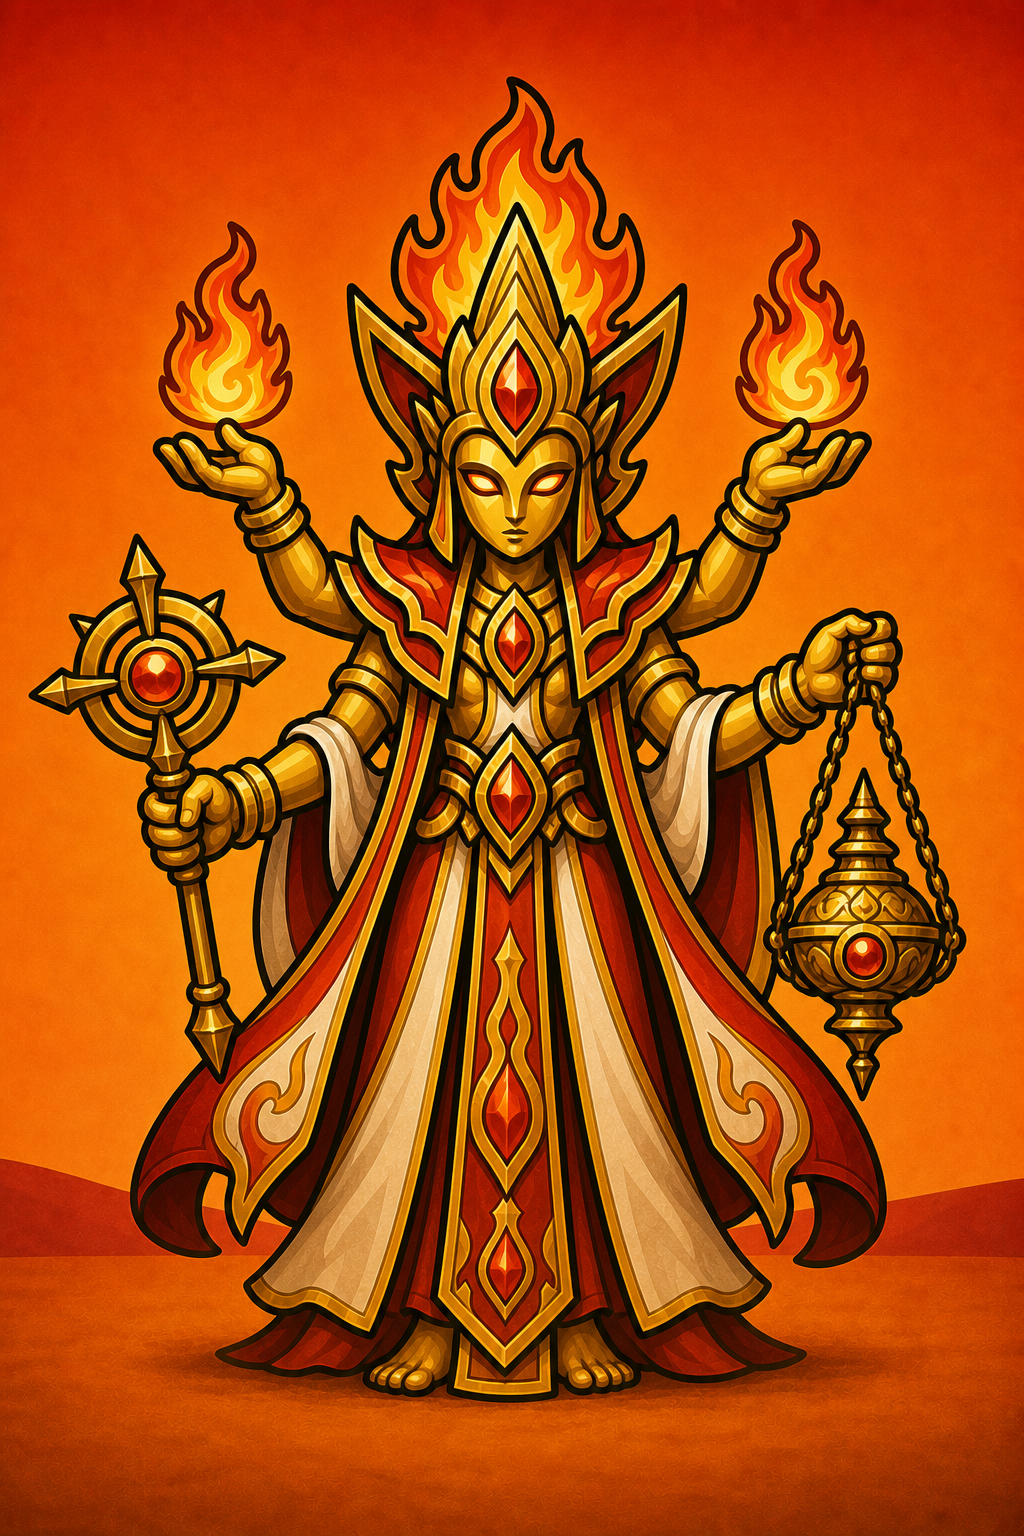
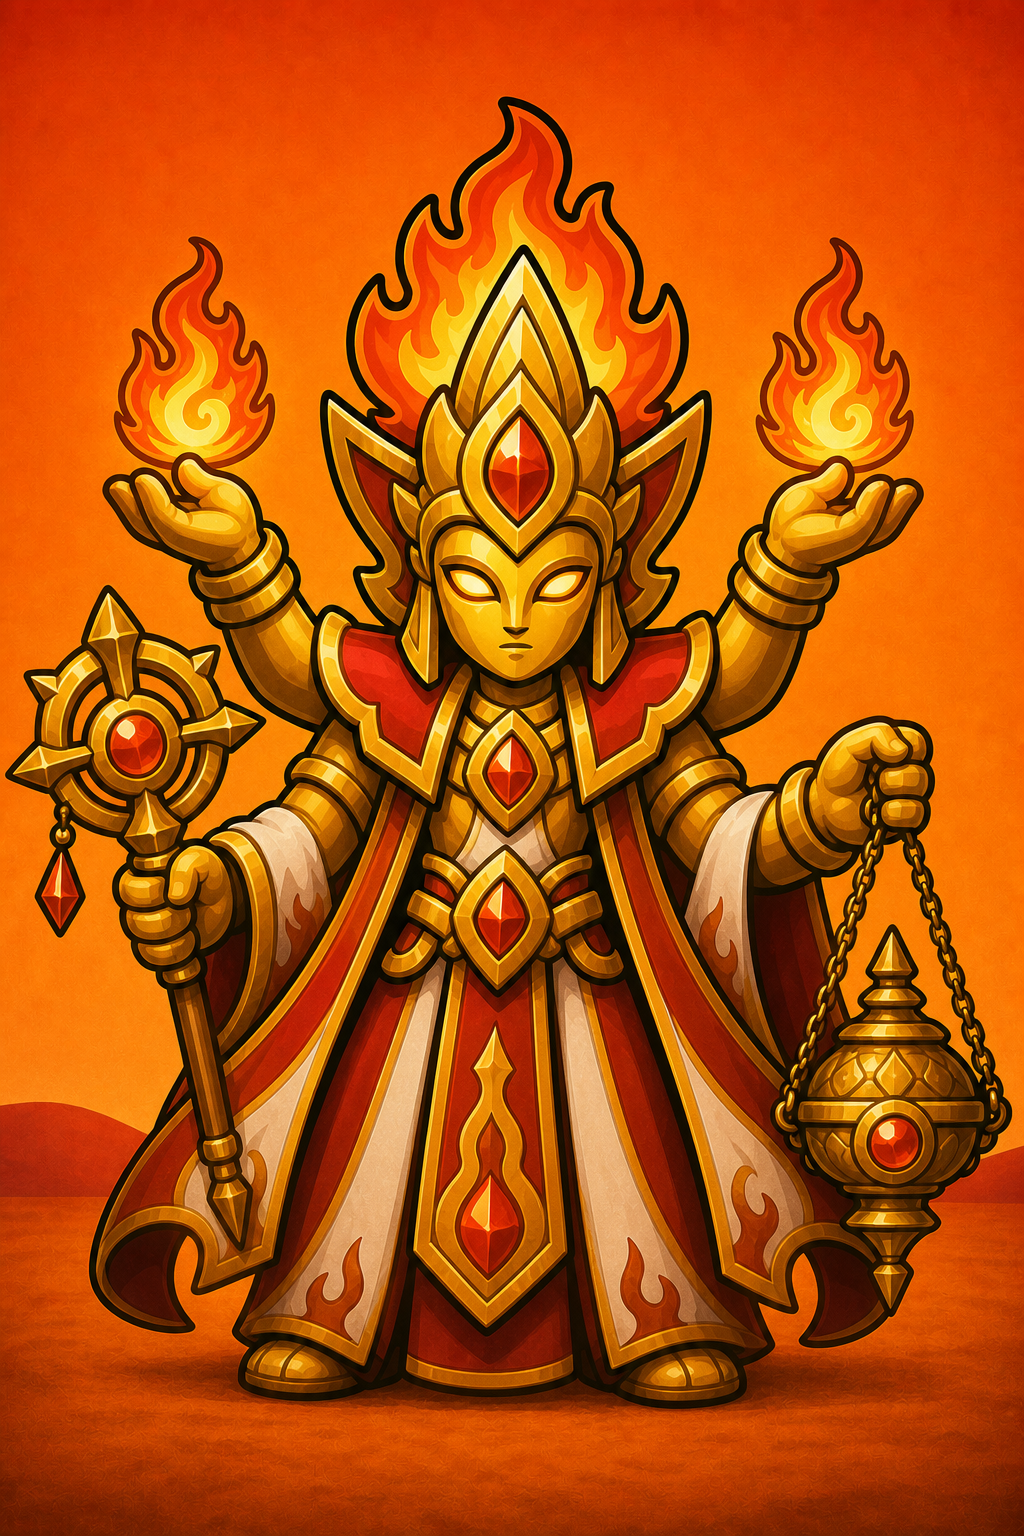
Map: align chrome to the design philosophy
Chrome-only pass; the medallion/trail drawing (MapCanvas) is untouched.
- Add the dark ScreenUI.BG_COLOR backdrop (was raw engine gray) so the
  trails and medallions read on it and it matches the rest of the game.
- Top HUD: safe-inset padding, more spacing, taller bar; run_hud.gd fonts
  bumped (22 desktop / 28 compact) so HP/Act/Gold are legible.
- Bottom bar: chunky buttons (210x60 / 300x96, font 20/30) with safe-inset
  padding, replacing the tiny corner buttons.
- Forge FAB kept (already chunky; reads well on the dark bg).

Updated UI_OVERHAUL_GUIDE.md; also bundles a card-art tweak.

diff --git a/UI_OVERHAUL_GUIDE.md b/UI_OVERHAUL_GUIDE.md
@@ -45,10 +45,11 @@ Parse-check edited scripts (warnings are errors for this user):
 `_render.gd` now starts a run (with sample charms) for run-dependent scenes and sets `editing_deck_id`/`viewing_deck_id`, so Forge/Shop/Event/Deck-Build render with real content.
 
 - `lab_screen.gd` (Lab): reworked over several rounds of feedback. Final = a **"room" with two full-area states** over the **darkened** room art. Working area shows either the three artifacts as BIG clickable objects (`_make_artifact_object`), or — once clicked — that artifact's crafting workspace filling the area with a "‹ Lab" back button (`_build_craft_panel`/`_close_artifact`); no dim modal. Forge bodies split the card preview into its OWN column (`_assemble_forge`) so it doesn't fight the action button. **Working area + resources sit SIDE BY SIDE on desktop** (HBox: work 2.6 | resources column 1.0) so they can't overlap on short windows; **stacked** on compact. (Earlier stacked-everywhere version overflowed the crafting panel down over the resources at 1366×768 — that's why it's side-by-side now.) ✓ `lab_room_new.png`, `lab_craft_new.png`.
+- `map.gd` (Map): chrome-only pass — the medallion/trail drawing (`MapCanvas`) is untouched. Added the dark `ScreenUI.BG_COLOR` backdrop (was raw engine gray → trails/medallions now read); HUD + bottom bar get safe-inset padding and bigger/chunkier text+buttons; `run_hud.gd` fonts bumped (22 desktop/28 compact); HUD/bottom-bar heights raised. Forge FAB kept (already chunky). ✓ `map_new.png`.
 
 ## Remaining screens
 1. **Debug Shop** `debug_shop.gd` — dev tool; low priority.
-2. **Map** `map.gd`, **Combat HUD** `combat.gd:_build_hud` — HUD button sizing inconsistent; reasonable but review.
+2. **Combat HUD** `combat.gd:_build_hud` — HUD button sizing; reasonable but review.
 3. Mostly-OK (light touch): `reward_screen.gd`, `rest_screen.gd`, `relic_event_screen.gd`, `collection_screen.gd`.
 
 Shared helpers: `ScreenUI` (`screen_ui.gd`) — `frame/scaffold/frame_centered`, `back_button`, `close_button`, `experience_bar`, `BG_COLOR`. `UIScale` (`ui_scale.gd`) — `is_compact()` (true if mobile or window <1100px), `safe_inset()` (40 compact / 28 desktop).